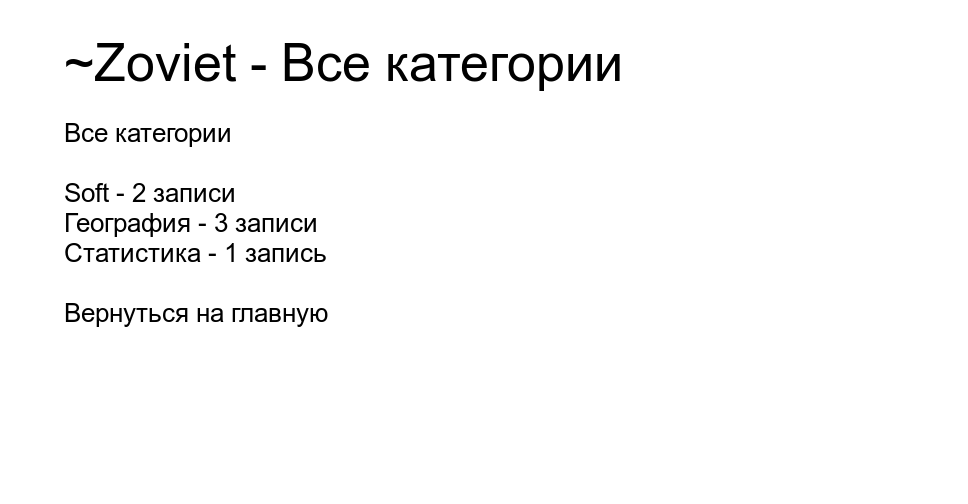
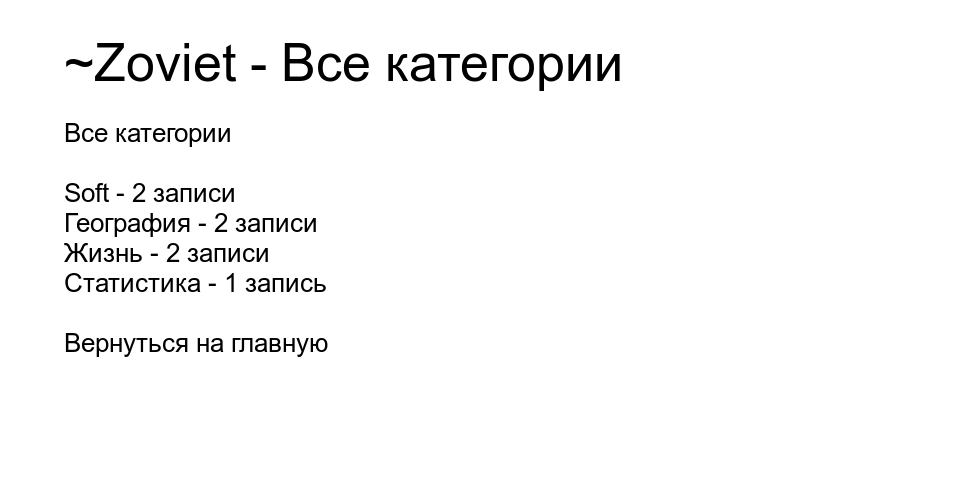
oopt

Changed region(s): [[0.062, 0.4167, 0.3409, 0.7143]]

diff --git a/rossijskoe-dao.html b/rossijskoe-dao.html
@@ -1,0 +1,88 @@
+<!DOCTYPE html PUBLIC "-//W3C//DTD XHTML 1.0 Strict//EN" "http://www.w3.org/TR/xhtml1/DTD/xhtml1-strict.dtd">
+<html xmlns="http://www.w3.org/1999/xhtml"><head>
+<meta http-equiv="Content-type" content="text/html;charset=UTF-8" />
+<meta name="viewport" content="width=device-width, initial-scale=1.0" />
+<link rel="stylesheet" href="./theme/style.css" type="text/css" />
+<link rel="alternate" type="application/rss+xml" title="RSS feed" href="feed.rss" />
+<title>Российское Дао</title>
+<meta property='og:title' content='Российское Дао'/>
+<meta property='og:type' content='article' />
+<meta property='og:image:width' content='968'/>
+<meta property='og:image:height' content='504'/>
+<meta property='og:image' content='https://zoviet.github.io/ogg/rossijskoe-dao.png'/>
+
+</head><body>
+
+<div id="divbodyholder">
+<div class="headerholder"><div class="header">
+<div id="title">
+<h1 class="nomargin"><a class="ablack" href="https://zoviet.github.io/index.html">~Zoviet</a></h1>
+<div id="description">https://zoviet.github.io/</div>
+</div></div></div>
+<div id="divbody"><div class="content">
+<!-- entry begin -->
+<h3><a class="ablack" href="rossijskoe-dao.html">
+Российское Дао
+</a></h3>
+<!-- bashblog_timestamp: #202101222005.06# -->
+<div class="subtitle">января 22, 2021 &mdash; 
+Alexandr Pavlov
+</div>
+<!-- text begin -->
+
+<p>Практика невникания вместо практики недеяния - это и есть российское дао: жизнь без вопросов и задач, но наполненная проблемами, неотделимыми от угрозы. Угрозы невниканию. </p>
+
+<p>Уважаемый человек - это герой внутренней российской алхимии, преодолевший и нигредо, и рубедо и достигший за счет этого уважения. </p>
+
+<p>Категории: <a href='category_Жизнь.html'>Жизнь</a></p>
+<hr />
+
+<h2>Проблемы есть, задач нет</h2>
+
+<p>Обращали ли вы внимание на то, что в нашей системе хозяйствования нет и не может быть задач, а есть только проблемы. Слово "решение" относится и к тому и другому, а лексически "проблемы" тоже часто заменяются на "задачи", особенно в документах, но содержание у проблем и задач разное. </p>
+
+<p>Проблема - это преодоление, задача - это задача. Отличие - в формализации. Задачи формализуются и решаются, проблемы не формализуются, а преодолеваются, а сам процесс этого преодоления - это (в первую очередь) социальный навык "решения вопросов". Не задач, а вопросов. </p>
+
+<p>На низовом уровне проблемой является то, что нельзя сделать самостоятельно. Надо искать людей, решать вопрос. Решение - это всегда поиск людей. Кто решает вопрос - тот и молодец. </p>
+
+<p>С обратной стороны спектра "государственные задачи", что следует понимать как "государственные проблемы", неотделимые от угрозы. И каждая проблема также персонифицируется, превращаясь при этом в ресурс. В лексике это то же самое, что и на низовом уровне - что-то делает (т.е. решает) всегда конкретный человек на словах. Леса - это Пупкин. Пупкин сделал. Стройка - это Васюпкин. Васюпкин построил. Решать вопросы - к нему. Чем лучше решаешь вопросы, тем больше уважения имеешь.</p>
+
+<p>Если навык решения задач - это навык формализации, то есть разбивки на составляющие и операционализации, в случае задач управления - с последующим администрированием, то навык решения вопросов - это исключительно навык нахождения баланса ресурсных интересов, то есть оценки социальных статусов и соблюдения понятий: кому дать, у кого взять, с кем решать. Оба навыка, соответственно, универсальны, но при этом для  решения вопроса создание из вопроса задачи - это только (и исключительно) элемент дизайна и не более того. То есть, если для первого подхода это и есть суть, то для второго - только фантик, ничего не значащий. </p>
+
+<p>Рассматривание чего-то завернутого в фантик как конфетку и есть предмет интереса "оппозиционной журналистики", от ночного чтения контента которого эта мысль и оформилась окончательно.</p>
+
+<h2>Российское Дао</h2>
+
+<p>В этом модусе великим благом и сверхценностью оказывается невникание, являющееся неизменным атрибутом уважения. Если ты уважаемый человек, то вникать должно быть по всем понятиям западло - не для того вопросы решал и с людьми терки тер. </p>
+
+<p>Практика. Я постоянно сталкивался с тем, что что-либо объяснять кому-то бесполезно, даже когда ты точно знаешь предмет, досконально и полностью в этом знании уверен. Однозначное железно доказанное знание - не аргумент. Более того, можно по морде отхватить, ибо мозги паришь уважаемым людям. Правильно сразу ссылаться на то, что так люди делают всегда или просто говорить, что так будет правильно, потому что так всегда делал и было все за..ись. Даже если никогда до этого не делал.</p>
+
+<p>Невникание - доблесть, это показатель умения решать вопросы, а не заниматься всякой никчемной ерундой. В административной практике носителей такого Дао  называют "хорошими управленцами", универсальными. Вникать в проблему равносильно вниканию в задачу, что есть зашквар самый лютый, лишающий просветленности: надо вопросы решать, а не ерундой заниматься. Терки тереть и рамсы не путать.</p>
+
+<h2>Инженерия</h2>
+
+<p>В этом свете интересно рассмотреть вопрос инженерии. Точнее её отсутствия.  Я как-то уже по старчески брюзжал на "науку", когда неделю пытался найти аппарат физический для датчика, а получал в ответ исключительно простейшую комбинаторную инженерию. </p>
+
+<p>Тут дело такое. Ввиду отсутствия задач, инженерии нет и быть не может. Инженер - это кто-то вроде мага, решающий проблему, сформулированную чаще всего так: "сделай так, чтобы было за...сь!". Неважная в общем сущность в целом, маг мелкого масштаба, решающий вопросы не с людями, а с какой-то "ху..й". </p>
+
+<p>Это работает так. Возникает проблема и ищутся люди: Аллочка вопрос отсоса решает, Петенька вопрос заноса, Андрюшенька вопрос бумажек, Петрович - с администрацией решает, Василич обнал обеспечивает, а еще есть какой-то мужик в дальнем углу - Максимыч, который решает проблему изображения объекта деятельности: строит, например, АЭС. А уж Максимыч в свою очердь своих Аллочек-Петенек держит: один решает проблему урана, второй проблему изгибания трубок и так далее: локальная ложа прикладных магов: один сдохнет, дело встанет.  А так как задач нет и быть не может, они частью банальных магов низкого уровня ставятся себе сами ввиду интереса или просто от необходимости изображать деятельность. Ныне это и есть содержание науки, вполне коррелирующее с базовой установкой на извлечение пользы. Что, мол, наука должна сразу и в лоб приносить пользу - простую и понятную. Ученые должны полезные штуки открывать - например, открыли туалетную бумагу с перфорацией ученые, природное явление вай-фая. Именно так и не иначе. </p>
+
+<p>Ввиду персонификации процесса при этом оказывается, что такого рода открыватели - это, опять же, маги, в чудодействуенную силу которых надо верить. Отсюда (точнее, с этим связан) нарратив про тайные порохи в пороховницах, миф о Левше. Есть, есть мол в тайных бункерах МАГИ-ГЕНИИ, которые неведомую херную могут сразу полезную сделать, которая будет ох...а и которой можно хвалиться. На этом вполне себе паразиторовали т.н. "ученые" а-ля Циолковского, Чижевского и прочих подобного рода деятелей, актуальный топ которых ныне представлен в виде списка ученого совета структур курчатовки и на почившем в бозе сайте "Фрикопедия".</p>
+
+<!-- text end -->
+<h3>Комментарии:</h3>
+
+<p>Репозиторий блога - <a href="https://github.com/Zoviet/Zoviet.github.io">https://github.com/Zoviet/Zoviet.github.io</a>.</p>
+<p>Лицензия текстов - FDLv1.3, что означает, что вы вольны делать с ними все, что вам угодно: изменять, копировать, удалять, менять, продавать и так далее. Уведомлять кого-либо о чем-либо не требуется.</p>
+<p>Если вы видите в посте неточность, или с чем-то не согласны, делайте коммит в репозиторий. Обратите внимание на то, что править необходимо исходные Markdown файлы, а не уже собранные html.</p>
+<p>Если вам все-таки хочется оставить в тексте комментарий, пожалуйста отбивайте его от основного текста линией (----).</p>
+<!-- entry end -->
+</div>
+<div id="footer">
+        Cайт не использует cookies, java script и не собирает никаких данных пользователей. <br/>
+		Сайт оптимизирован под текстовые браузеры (Lynx, Links и т.д.). <br/><br/>	
+		<a href="https://www.gnu.org/licenses/fdl-1.3-standalone.html">     
+       <img src="https://www.gnu.org/graphics/gfdl-logo-tiny.png">   FDLv1.3</a> <a href="http://twitter.com/example">Alexandr Pavlov</a> &mdash; <a href="mailto:alexandr&#64;asustem&#46;ru">alexandr&#64;asustem&#46;ru</a><br/>
+Generated with <a href="https://github.com/Zoviet/bashblog">bashblog</a>, a single bash script to easily create blogs like this one</div>
+</div></div>
+</body></html>

diff --git a/pro-izmerenie-prirody-w-procentah.html b/pro-izmerenie-prirody-w-procentah.html
@@ -4,8 +4,8 @@
 <meta name="viewport" content="width=device-width, initial-scale=1.0" />
 <link rel="stylesheet" href="./theme/style.css" type="text/css" />
 <link rel="alternate" type="application/rss+xml" title="RSS feed" href="feed.rss" />
-<title>Про измерение природы в процентах</title>
-<meta property='og:title' content='Про измерение природы в процентах'/>
+<title>Про измерение природы в процентах и единство управления</title>
+<meta property='og:title' content='Про измерение природы в процентах и единство управления'/>
 <meta property='og:type' content='article' />
 <meta property='og:image:width' content='968'/>
 <meta property='og:image:height' content='504'/>
@@ -22,7 +22,8 @@
 <div id="divbody"><div class="content">
 <!-- entry begin -->
 <h3><a class="ablack" href="pro-izmerenie-prirody-w-procentah.html">
-Про измерение природы в процентах
+Про измерение природы в процентах 
+и единство управления
 </a></h3>
 <!-- bashblog_timestamp: #202101221941.49# -->
 <div class="subtitle">января 22, 2021 &mdash; 
@@ -32,9 +33,9 @@ Alexandr Pavlov
 
 <p>Природа (в широком понимании) измеряется в процентах её защиты, культура в квадратных метрах, а удовлетворенность населения в количестве опросов про эту удовлетворенность. </p>
 
-<p>При этом все это неизбежно и буквально ограничено - границами учетных поместий. </p>
+<p>При этом все это неизбежно и буквально ограничено - границами учетных поместий, а единство управления обеспечивается через единство учета. </p>
 
-<p>Категории: <a href='category_География.html'>География</a></p>
+<p>Категории: <a href='category_Жизнь.html'>Жизнь</a></p>
 <hr />
 
 <p>Супруга подарила на НГ мне много книг - съездила в издательство и купила все мелкотиражные их издания: материалы малых сытинских чтений, опусы Козлова и прочее. Среди книжек нашлась новая книжка про ООПТ Ульяновской области, включающая в себя перспективные. Предыдущее подобное издание издавали при Горячеве, у меня также имеется. Прочитал в общем за ночь. Что поменялось?</p>
@@ -58,9 +59,22 @@ Alexandr Pavlov
 
 <p>Если раньше, до цифровой эры измерения квадратными километрами, типология деления ООПТ подразумевала выделение типа - ландшафтные памятники природы, то ныне этого нет: типология упрощена до формальных критериев: водные, болотные, степные, лесные. И в этом же ряду - островные. Единства нет кроме общего места ландшафтного балабольства. </p>
 
-<p>Почему? Дело в локальности и фрактальности этой локальности - каждый уровень власти ограничен физическими границами, жесткость которых по факту гораздо больше, чем нормативная. А мир управления оказывается равнозначен и имманентен территории внутри границ, которая и создает картину восприятия. Можно было бы написать и "картину мира управленцев", но в этом случае пришлось бы декларировать череду миров а-ля "Хроники Эмбера". В общем, взгляд, производный от территории и её же ограничен, приобретает единство только за счет (и благодаря) единству системы учета. </p>
+<p>Почему? Дело в локальности и фрактальности этой локальности - каждый уровень власти ограничен физическими границами, жесткость которых по факту гораздо больше, чем нормативная. А мир управления оказывается равнозначен и имманентен территории внутри границ, которая и создает картину восприятия. Можно было бы написать и "картину мира управленцев", но в этом случае пришлось бы декларировать череду миров а-ля "Хроники Эмбера". В общем, взгляд, производный от территории и её же ограничен, приобретает единство только за счет (и благодаря) единству системы учета, которая и обеспечивает единство управления.</p>
 
-<p>В общем погуглил и выяснил, что подобная ситуация ныне по всей стране - уверен, что именно из-за тех самых целевых показателей. Если раньше типология соответствовала в целом делению суб-наук, связанных с экологией, то ныне системности нет никакой. Наверное, она ныне административная, что помимо прочего ныне может пониматься (в свете методологической ориентации ряда властных кудесников) еще и как цифровая. То есть, подлежит типологизации только то, что может быть прямо учтено по простым показателям, уровень проработки которых (в связи с методологиями целевых программ и статистики) не должен превышать уровень средней школы. </p>
+<h2>Единство управления</h2>
+
+<p>Всегда меня удивляло при отраслевом подходе к администрированию, наследованному в целом еще с СССР, как обеспечивается в данном случае единство управления, да и единство объекта управления в целом, который вовсе не имманентен мозаике из отраслей и даже не является их суперпозицией ввиду того, что отрасли существуют только в пространстве административного управления, но никак не в реальной жизни. На этом противоречии построено множество наблюдений советского времени Сергея Белановского. </p>
+
+<p>Есть и теоретические модели на взгляде со стороны управления - общеизвестные административные рынки и горизонтальные связи. 
+Были и попытки - столь же убого хипстерские, как и аналоги нынешние, избежать осмысления вопроса путем представления его в виде проблемы, которая, в свою очередь понималась как задача для теоретиков инженерии. Речь про кибернетику и идею глобальной АСУ управления версии 1972 года выпуска. Согласно тогдашнему учебнику (единственному!) по этому вопросу, который я приобрел у букинистов и полистал безо всякого удовольствия, кибернетики не претендовали вообще на осмысление вопроса, а подходили в лоб к вопросу как и нынешние хипстеры. Цифровизуем отрасли и от этого они появятся как сущности физические - по сути маразм подобных подходов сводится к такому посылу. Иначе, в свете темы поста: если создадим искусственный объект управления, то он появится в реальности за счет процедуры его учета как данность. И дальше мир прогнется под нас. </p>
+
+<p>Именно так были поняты модные несколько лет назад кластеры - мол если мы создадим зону кластерную (что в наших условиях надо понимать абсолютно буквально - т.е. озаборим территорию и установим на ней особый режим), а также создадим критерии учета и отчетности, то самим собой появится содержание. Например, в машиностроительном кластере появится отрасль машиностроения. </p>
+
+<p>При всем при этом игнорируется тот факт, что никакой реальной административной проблемы отраслевой подход не создает. В 9 утра совещаемся по культуре - считаем её в квадратных метрах и разивваем, в 10 - переходим на отрасль машиностроения, в 12 - на науку. И так далее - без проблем. Никакие неизбежные при этом проблемы не замечаются в принципе ввиду иной совершенно природы единства подхода, нежели тот, который пытались искусственно народить кибернетики, считая, что в этом есть какая-то проблема. </p>
+
+<p>Единство здесь через ресурсный процесс, а не через результат, как казалось романтикам. А ресурсный процесс социальный и для него содержание деятельности фактически не важно и имеет значение только для обоснования необходимости выделения ресурсов. Кого, например, волнуют реально какие-то там московские бордюры? Да похеру всем. Результат деятельности - побочное следствие. Только этим, и ничем иным, единство и обеспечивается в совокупностью, конечно, с необходимостью перераспределения постоянного выделенного "по уму" и по понятиям. </p>
+
+<p>В этой связи никакого удивления не может и не должно вызывать формирование гос. корпораций равных отраслям - это и есть в этой логике максимальная эффективность. Петя - за нефтянку (читай: нефтяной ресурс осваивает), Вася - за культурку (читай: культуру осваивает), Аллочка - за образование (читай: образование осваивает). То, что отрасли объект административно-аналитический при этом никакого значения не имеет в принципе. Более того, чем стройнее такая система выстраивается, тем больше разрыв между реальными траекториями распределения и формальными этих самых ресурсов: это тоже признак эффективности и стройности: каждый, кто на теме, получает то, что ему положено. Все довольны и только и остается, что решать вопросы и торговать проблемами, разрешенными к решению.</p>
 
 <!-- text end -->
 <h3>Комментарии:</h3>

diff --git a/category_Жизнь.html b/category_Жизнь.html
@@ -1,0 +1,74 @@
+<!DOCTYPE html PUBLIC "-//W3C//DTD XHTML 1.0 Strict//EN" "http://www.w3.org/TR/xhtml1/DTD/xhtml1-strict.dtd">
+<html xmlns="http://www.w3.org/1999/xhtml"><head>
+<meta http-equiv="Content-type" content="text/html;charset=UTF-8" />
+<meta name="viewport" content="width=device-width, initial-scale=1.0" />
+<link rel="stylesheet" href="./theme/style.css" type="text/css" />
+<link rel="alternate" type="application/rss+xml" title="RSS feed" href="feed.rss" />
+<title>~Zoviet &mdash; Записи категории "Жизнь"</title>
+<meta property='og:title' content='~Zoviet &mdash; Записи категории "Жизнь"'/>
+<meta property='og:type' content='article' />
+<meta property='og:image:width' content='968'/>
+<meta property='og:image:height' content='504'/>
+<meta property='og:image' content='https://zoviet.github.io/ogg/category_Жизнь.png'/>
+
+</head><body>
+
+<div id="divbodyholder">
+<div class="headerholder"><div class="header">
+<div id="title">
+<h1 class="nomargin"><a class="ablack" href="https://zoviet.github.io/index.html">~Zoviet</a></h1>
+<div id="description">https://zoviet.github.io/</div>
+</div></div></div>
+<div id="divbody"><div class="content">
+<h3><a class="ablack" href="rossijskoe-dao.html">
+Российское Дао
+</a></h3>
+<!-- bashblog_timestamp: #202101222005.06# -->
+<div class="subtitle">января 22, 2021 &mdash; 
+Alexandr Pavlov
+</div>
+<!-- text begin -->
+
+<p>Практика невникания вместо практики недеяния - это и есть российское дао: жизнь без вопросов и задач, но наполненная проблемами, неотделимыми от угрозы. Угрозы невниканию. </p>
+
+<p>Уважаемый человек - это герой внутренней российской алхимии, преодолевший и нигредо, и рубедо и достигший за счет этого уважения. </p>
+
+<p>Категории: <a href='category_Жизнь.html'>Жизнь</a></p>
+<p class="readmore"><a href="rossijskoe-dao.html">Дальше...</a></p>
+<h3>Комментарии:</h3>
+
+<p>Репозиторий блога - <a href="https://github.com/Zoviet/Zoviet.github.io">https://github.com/Zoviet/Zoviet.github.io</a>.</p>
+<p>Лицензия текстов - FDLv1.3, что означает, что вы вольны делать с ними все, что вам угодно: изменять, копировать, удалять, менять, продавать и так далее. Уведомлять кого-либо о чем-либо не требуется.</p>
+<p>Если вы видите в посте неточность, или с чем-то не согласны, делайте коммит в репозиторий. Обратите внимание на то, что править необходимо исходные Markdown файлы, а не уже собранные html.</p>
+<p>Если вам все-таки хочется оставить в тексте комментарий, пожалуйста отбивайте его от основного текста линией (----).</p>
+<h3><a class="ablack" href="pro-izmerenie-prirody-w-procentah.html">
+Про измерение природы в процентах 
+и единство управления
+</a></h3>
+<!-- bashblog_timestamp: #202101221941.49# -->
+<div class="subtitle">января 22, 2021 &mdash; 
+Alexandr Pavlov
+</div>
+<!-- text begin -->
+
+<p>Природа (в широком понимании) измеряется в процентах её защиты, культура в квадратных метрах, а удовлетворенность населения в количестве опросов про эту удовлетворенность. </p>
+
+<p>При этом все это неизбежно и буквально ограничено - границами учетных поместий, а единство управления обеспечивается через единство учета. </p>
+
+<p>Категории: <a href='category_Жизнь.html'>Жизнь</a></p>
+<p class="readmore"><a href="pro-izmerenie-prirody-w-procentah.html">Дальше...</a></p>
+<h3>Комментарии:</h3>
+
+<p>Репозиторий блога - <a href="https://github.com/Zoviet/Zoviet.github.io">https://github.com/Zoviet/Zoviet.github.io</a>.</p>
+<p>Лицензия текстов - FDLv1.3, что означает, что вы вольны делать с ними все, что вам угодно: изменять, копировать, удалять, менять, продавать и так далее. Уведомлять кого-либо о чем-либо не требуется.</p>
+<p>Если вы видите в посте неточность, или с чем-то не согласны, делайте коммит в репозиторий. Обратите внимание на то, что править необходимо исходные Markdown файлы, а не уже собранные html.</p>
+<p>Если вам все-таки хочется оставить в тексте комментарий, пожалуйста отбивайте его от основного текста линией (----).</p>
+</div>
+<div id="footer">
+        Cайт не использует cookies, java script и не собирает никаких данных пользователей. <br/>
+		Сайт оптимизирован под текстовые браузеры (Lynx, Links и т.д.). <br/><br/>	
+		<a href="https://www.gnu.org/licenses/fdl-1.3-standalone.html">     
+       <img src="https://www.gnu.org/graphics/gfdl-logo-tiny.png">   FDLv1.3</a> <a href="http://twitter.com/example">Alexandr Pavlov</a> &mdash; <a href="mailto:alexandr&#64;asustem&#46;ru">alexandr&#64;asustem&#46;ru</a><br/>
+Generated with <a href="https://github.com/Zoviet/bashblog">bashblog</a>, a single bash script to easily create blogs like this one</div>
+</div></div>
+</body></html>

diff --git a/index.html b/index.html
@@ -21,8 +21,30 @@
 <div id="description">https://zoviet.github.io/</div>
 </div></div></div>
 <div id="divbody"><div class="content">
+<h3><a class="ablack" href="rossijskoe-dao.html">
+Российское Дао
+</a></h3>
+<!-- bashblog_timestamp: #202101222005.06# -->
+<div class="subtitle">января 22, 2021 &mdash; 
+Alexandr Pavlov
+</div>
+<!-- text begin -->
+
+<p>Практика невникания вместо практики недеяния - это и есть российское дао: жизнь без вопросов и задач, но наполненная проблемами, неотделимыми от угрозы. Угрозы невниканию. </p>
+
+<p>Уважаемый человек - это герой внутренней российской алхимии, преодолевший и нигредо, и рубедо и достигший за счет этого уважения. </p>
+
+<p>Категории: <a href='category_Жизнь.html'>Жизнь</a></p>
+<p class="readmore"><a href="./rossijskoe-dao.html">Дальше...</a></p>
+<h3>Комментарии:</h3>
+
+<p>Репозиторий блога - <a href="https://github.com/Zoviet/Zoviet.github.io">https://github.com/Zoviet/Zoviet.github.io</a>.</p>
+<p>Лицензия текстов - FDLv1.3, что означает, что вы вольны делать с ними все, что вам угодно: изменять, копировать, удалять, менять, продавать и так далее. Уведомлять кого-либо о чем-либо не требуется.</p>
+<p>Если вы видите в посте неточность, или с чем-то не согласны, делайте коммит в репозиторий. Обратите внимание на то, что править необходимо исходные Markdown файлы, а не уже собранные html.</p>
+<p>Если вам все-таки хочется оставить в тексте комментарий, пожалуйста отбивайте его от основного текста линией (----).</p>
 <h3><a class="ablack" href="pro-izmerenie-prirody-w-procentah.html">
-Про измерение природы в процентах
+Про измерение природы в процентах 
+и единство управления
 </a></h3>
 <!-- bashblog_timestamp: #202101221941.49# -->
 <div class="subtitle">января 22, 2021 &mdash; 
@@ -32,9 +54,9 @@ Alexandr Pavlov
 
 <p>Природа (в широком понимании) измеряется в процентах её защиты, культура в квадратных метрах, а удовлетворенность населения в количестве опросов про эту удовлетворенность. </p>
 
-<p>При этом все это неизбежно и буквально ограничено - границами учетных поместий. </p>
+<p>При этом все это неизбежно и буквально ограничено - границами учетных поместий, а единство управления обеспечивается через единство учета. </p>
 
-<p>Категории: <a href='category_География.html'>География</a></p>
+<p>Категории: <a href='category_Жизнь.html'>Жизнь</a></p>
 <p class="readmore"><a href="./pro-izmerenie-prirody-w-procentah.html">Дальше...</a></p>
 <h3>Комментарии:</h3>
 

diff --git a/category_География.html b/category_География.html
@@ -20,27 +20,6 @@
 <div id="description">https://zoviet.github.io/</div>
 </div></div></div>
 <div id="divbody"><div class="content">
-<h3><a class="ablack" href="pro-izmerenie-prirody-w-procentah.html">
-Про измерение природы в процентах
-</a></h3>
-<!-- bashblog_timestamp: #202101221941.49# -->
-<div class="subtitle">января 22, 2021 &mdash; 
-Alexandr Pavlov
-</div>
-<!-- text begin -->
-
-<p>Природа (в широком понимании) измеряется в процентах её защиты, культура в квадратных метрах, а удовлетворенность населения в количестве опросов про эту удовлетворенность. </p>
-
-<p>При этом все это неизбежно и буквально ограничено - границами учетных поместий. </p>
-
-<p>Категории: <a href='category_География.html'>География</a></p>
-<p class="readmore"><a href="pro-izmerenie-prirody-w-procentah.html">Дальше...</a></p>
-<h3>Комментарии:</h3>
-
-<p>Репозиторий блога - <a href="https://github.com/Zoviet/Zoviet.github.io">https://github.com/Zoviet/Zoviet.github.io</a>.</p>
-<p>Лицензия текстов - FDLv1.3, что означает, что вы вольны делать с ними все, что вам угодно: изменять, копировать, удалять, менять, продавать и так далее. Уведомлять кого-либо о чем-либо не требуется.</p>
-<p>Если вы видите в посте неточность, или с чем-то не согласны, делайте коммит в репозиторий. Обратите внимание на то, что править необходимо исходные Markdown файлы, а не уже собранные html.</p>
-<p>Если вам все-таки хочется оставить в тексте комментарий, пожалуйста отбивайте его от основного текста линией (----).</p>
 <h3><a class="ablack" href="regionalxnoe-uprawlenie-kak-kollekcionirowanie.html">
 Региональное управление как 
 коллекционирование

diff --git a/archive.html b/archive.html
@@ -23,7 +23,9 @@
 <h3>Все записи</h3>
 <h4 class='allposts_header'>января 2021</h4>
 <ul>
-<li><a href="./pro-izmerenie-prirody-w-procentah.html">Про измерение природы в процентах</a> &mdash; января 22, 2021</li>
+<li><a href="./rossijskoe-dao.html">Российское Дао</a> &mdash; января 22, 2021</li>
+<li><a href="./pro-izmerenie-prirody-w-procentah.html">Про измерение природы в процентах 
+и единство управления</a> &mdash; января 22, 2021</li>
 <li><a href="./regionalxnoe-uprawlenie-kak-kollekcionirowanie.html">Региональное управление как 
 коллекционирование</a> &mdash; января 22, 2021</li>
 <li><a href="./kak-statistika-poborola-fiziku.html">Как статистика поборола физику</a> &mdash; января 16, 2021</li>

diff --git a/categories.html b/categories.html
@@ -23,7 +23,8 @@
 <h3>Все категории</h3>
 <ul>
 <li><a href="category_Soft.html">Soft</a> &mdash; 2 записи</li>
-<li><a href="category_География.html">География</a> &mdash; 3 записи</li>
+<li><a href="category_География.html">География</a> &mdash; 2 записи</li>
+<li><a href="category_Жизнь.html">Жизнь</a> &mdash; 2 записи</li>
 <li><a href="category_Статистика.html">Статистика</a> &mdash; 1 запись</li>
 </ul>
 <div id="all_posts"><a href="./index.html">Вернуться на главную</a></div>

diff --git a/pro-izmerenie-prirody-w-procentah.md b/pro-izmerenie-prirody-w-procentah.md
@@ -1,10 +1,10 @@
-Про измерение природы в процентах
+Про измерение природы в процентах и единство управления
 
 Природа (в широком понимании) измеряется в процентах её защиты, культура в квадратных метрах, а удовлетворенность населения в количестве опросов про эту удовлетворенность. 
 
-При этом все это неизбежно и буквально ограничено - границами учетных поместий. 
+При этом все это неизбежно и буквально ограничено - границами учетных поместий, а единство управления обеспечивается через единство учета. 
 
-Категории: География
+Категории: Жизнь
 
 _____
 
@@ -26,10 +26,19 @@ _____
 
 Если раньше, до цифровой эры измерения квадратными километрами, типология деления ООПТ подразумевала выделение типа - ландшафтные памятники природы, то ныне этого нет: типология упрощена до формальных критериев: водные, болотные, степные, лесные. И в этом же ряду - островные. Единства нет кроме общего места ландшафтного балабольства. 
 
-Почему? Дело в локальности и фрактальности этой локальности - каждый уровень власти ограничен физическими границами, жесткость которых по факту гораздо больше, чем нормативная. А мир управления оказывается равнозначен и имманентен территории внутри границ, которая и создает картину восприятия. Можно было бы написать и "картину мира управленцев", но в этом случае пришлось бы декларировать череду миров а-ля "Хроники Эмбера". В общем, взгляд, производный от территории и её же ограничен, приобретает единство только за счет (и благодаря) единству системы учета. 
+Почему? Дело в локальности и фрактальности этой локальности - каждый уровень власти ограничен физическими границами, жесткость которых по факту гораздо больше, чем нормативная. А мир управления оказывается равнозначен и имманентен территории внутри границ, которая и создает картину восприятия. Можно было бы написать и "картину мира управленцев", но в этом случае пришлось бы декларировать череду миров а-ля "Хроники Эмбера". В общем, взгляд, производный от территории и её же ограничен, приобретает единство только за счет (и благодаря) единству системы учета, которая и обеспечивает единство управления.
 
-В общем погуглил и выяснил, что подобная ситуация ныне по всей стране - уверен, что именно из-за тех самых целевых показателей. Если раньше типология соответствовала в целом делению суб-наук, связанных с экологией, то ныне системности нет никакой. Наверное, она ныне административная, что помимо прочего ныне может пониматься (в свете методологической ориентации ряда властных кудесников) еще и как цифровая. То есть, подлежит типологизации только то, что может быть прямо учтено по простым показателям, уровень проработки которых (в связи с методологиями целевых программ и статистики) не должен превышать уровень средней школы. 
+## Единство управления
 
+Всегда меня удивляло при отраслевом подходе к администрированию, наследованному в целом еще с СССР, как обеспечивается в данном случае единство управления, да и единство объекта управления в целом, который вовсе не имманентен мозаике из отраслей и даже не является их суперпозицией ввиду того, что отрасли существуют только в пространстве административного управления, но никак не в реальной жизни. На этом противоречии построено множество наблюдений советского времени Сергея Белановского. 
 
+Есть и теоретические модели на взгляде со стороны управления - общеизвестные административные рынки и горизонтальные связи. 
+Были и попытки - столь же убого хипстерские, как и аналоги нынешние, избежать осмысления вопроса путем представления его в виде проблемы, которая, в свою очередь понималась как задача для теоретиков инженерии. Речь про кибернетику и идею глобальной АСУ управления версии 1972 года выпуска. Согласно тогдашнему учебнику (единственному!) по этому вопросу, который я приобрел у букинистов и полистал безо всякого удовольствия, кибернетики не претендовали вообще на осмысление вопроса, а подходили в лоб к вопросу как и нынешние хипстеры. Цифровизуем отрасли и от этого они появятся как сущности физические - по сути маразм подобных подходов сводится к такому посылу. Иначе, в свете темы поста: если создадим искусственный объект управления, то он появится в реальности за счет процедуры его учета как данность. И дальше мир прогнется под нас. 
 
+Именно так были поняты модные несколько лет назад кластеры - мол если мы создадим зону кластерную (что в наших условиях надо понимать абсолютно буквально - т.е. озаборим территорию и установим на ней особый режим), а также создадим критерии учета и отчетности, то самим собой появится содержание. Например, в машиностроительном кластере появится отрасль машиностроения. 
 
+При всем при этом игнорируется тот факт, что никакой реальной административной проблемы отраслевой подход не создает. В 9 утра совещаемся по культуре - считаем её в квадратных метрах и разивваем, в 10 - переходим на отрасль машиностроения, в 12 - на науку. И так далее - без проблем. Никакие неизбежные при этом проблемы не замечаются в принципе ввиду иной совершенно природы единства подхода, нежели тот, который пытались искусственно народить кибернетики, считая, что в этом есть какая-то проблема. 
+
+Единство здесь через ресурсный процесс, а не через результат, как казалось романтикам. А ресурсный процесс социальный и для него содержание деятельности фактически не важно и имеет значение только для обоснования необходимости выделения ресурсов. Кого, например, волнуют реально какие-то там московские бордюры? Да похеру всем. Результат деятельности - побочное следствие. Только этим, и ничем иным, единство и обеспечивается в совокупностью, конечно, с необходимостью перераспределения постоянного выделенного "по уму" и по понятиям. 
+
+В этой связи никакого удивления не может и не должно вызывать формирование гос. корпораций равных отраслям - это и есть в этой логике максимальная эффективность. Петя - за нефтянку (читай: нефтяной ресурс осваивает), Вася - за культурку (читай: культуру осваивает), Аллочка - за образование (читай: образование осваивает). То, что отрасли объект административно-аналитический при этом никакого значения не имеет в принципе. Более того, чем стройнее такая система выстраивается, тем больше разрыв между реальными траекториями распределения и формальными этих самых ресурсов: это тоже признак эффективности и стройности: каждый, кто на теме, получает то, что ему положено. Все довольны и только и остается, что решать вопросы и торговать проблемами, разрешенными к решению.

diff --git a/rossijskoe-dao.md b/rossijskoe-dao.md
@@ -1,0 +1,41 @@
+Российское Дао
+
+Практика невникания вместо практики недеяния - это и есть российское дао: жизнь без вопросов и задач, но наполненная проблемами, неотделимыми от угрозы. Угрозы невниканию. 
+
+Уважаемый человек - это герой внутренней российской алхимии, преодолевший и нигредо, и рубедо и достигший за счет этого уважения. 
+
+Категории: Жизнь
+_________
+
+## Проблемы есть, задач нет
+
+
+Обращали ли вы внимание на то, что в нашей системе хозяйствования нет и не может быть задач, а есть только проблемы. Слово "решение" относится и к тому и другому, а лексически "проблемы" тоже часто заменяются на "задачи", особенно в документах, но содержание у проблем и задач разное. 
+
+Проблема - это преодоление, задача - это задача. Отличие - в формализации. Задачи формализуются и решаются, проблемы не формализуются, а преодолеваются, а сам процесс этого преодоления - это (в первую очередь) социальный навык "решения вопросов". Не задач, а вопросов. 
+
+На низовом уровне проблемой является то, что нельзя сделать самостоятельно. Надо искать людей, решать вопрос. Решение - это всегда поиск людей. Кто решает вопрос - тот и молодец. 
+
+С обратной стороны спектра "государственные задачи", что следует понимать как "государственные проблемы", неотделимые от угрозы. И каждая проблема также персонифицируется, превращаясь при этом в ресурс. В лексике это то же самое, что и на низовом уровне - что-то делает (т.е. решает) всегда конкретный человек на словах. Леса - это Пупкин. Пупкин сделал. Стройка - это Васюпкин. Васюпкин построил. Решать вопросы - к нему. Чем лучше решаешь вопросы, тем больше уважения имеешь.
+
+Если навык решения задач - это навык формализации, то есть разбивки на составляющие и операционализации, в случае задач управления - с последующим администрированием, то навык решения вопросов - это исключительно навык нахождения баланса ресурсных интересов, то есть оценки социальных статусов и соблюдения понятий: кому дать, у кого взять, с кем решать. Оба навыка, соответственно, универсальны, но при этом для  решения вопроса создание из вопроса задачи - это только (и исключительно) элемент дизайна и не более того. То есть, если для первого подхода это и есть суть, то для второго - только фантик, ничего не значащий. 
+
+Рассматривание чего-то завернутого в фантик как конфетку и есть предмет интереса "оппозиционной журналистики", от ночного чтения контента которого эта мысль и оформилась окончательно.
+
+## Российское Дао
+
+В этом модусе великим благом и сверхценностью оказывается невникание, являющееся неизменным атрибутом уважения. Если ты уважаемый человек, то вникать должно быть по всем понятиям западло - не для того вопросы решал и с людьми терки тер. 
+
+Практика. Я постоянно сталкивался с тем, что что-либо объяснять кому-то бесполезно, даже когда ты точно знаешь предмет, досконально и полностью в этом знании уверен. Однозначное железно доказанное знание - не аргумент. Более того, можно по морде отхватить, ибо мозги паришь уважаемым людям. Правильно сразу ссылаться на то, что так люди делают всегда или просто говорить, что так будет правильно, потому что так всегда делал и было все за..ись. Даже если никогда до этого не делал.
+
+Невникание - доблесть, это показатель умения решать вопросы, а не заниматься всякой никчемной ерундой. В административной практике носителей такого Дао  называют "хорошими управленцами", универсальными. Вникать в проблему равносильно вниканию в задачу, что есть зашквар самый лютый, лишающий просветленности: надо вопросы решать, а не ерундой заниматься. Терки тереть и рамсы не путать.
+
+## Инженерия
+
+В этом свете интересно рассмотреть вопрос инженерии. Точнее её отсутствия.  Я как-то уже по старчески брюзжал на "науку", когда неделю пытался найти аппарат физический для датчика, а получал в ответ исключительно простейшую комбинаторную инженерию. 
+
+Тут дело такое. Ввиду отсутствия задач, инженерии нет и быть не может. Инженер - это кто-то вроде мага, решающий проблему, сформулированную чаще всего так: "сделай так, чтобы было за...сь!". Неважная в общем сущность в целом, маг мелкого масштаба, решающий вопросы не с людями, а с какой-то "ху..й". 
+
+Это работает так. Возникает проблема и ищутся люди: Аллочка вопрос отсоса решает, Петенька вопрос заноса, Андрюшенька вопрос бумажек, Петрович - с администрацией решает, Василич обнал обеспечивает, а еще есть какой-то мужик в дальнем углу - Максимыч, который решает проблему изображения объекта деятельности: строит, например, АЭС. А уж Максимыч в свою очердь своих Аллочек-Петенек держит: один решает проблему урана, второй проблему изгибания трубок и так далее: локальная ложа прикладных магов: один сдохнет, дело встанет.  А так как задач нет и быть не может, они частью банальных магов низкого уровня ставятся себе сами ввиду интереса или просто от необходимости изображать деятельность. Ныне это и есть содержание науки, вполне коррелирующее с базовой установкой на извлечение пользы. Что, мол, наука должна сразу и в лоб приносить пользу - простую и понятную. Ученые должны полезные штуки открывать - например, открыли туалетную бумагу с перфорацией ученые, природное явление вай-фая. Именно так и не иначе. 
+
+Ввиду персонификации процесса при этом оказывается, что такого рода открыватели - это, опять же, маги, в чудодействуенную силу которых надо верить. Отсюда (точнее, с этим связан) нарратив про тайные порохи в пороховницах, миф о Левше. Есть, есть мол в тайных бункерах МАГИ-ГЕНИИ, которые неведомую херную могут сразу полезную сделать, которая будет ох...а и которой можно хвалиться. На этом вполне себе паразиторовали т.н. "ученые" а-ля Циолковского, Чижевского и прочих подобного рода деятелей, актуальный топ которых ныне представлен в виде списка ученого совета структур курчатовки и на почившем в бозе сайте "Фрикопедия".
